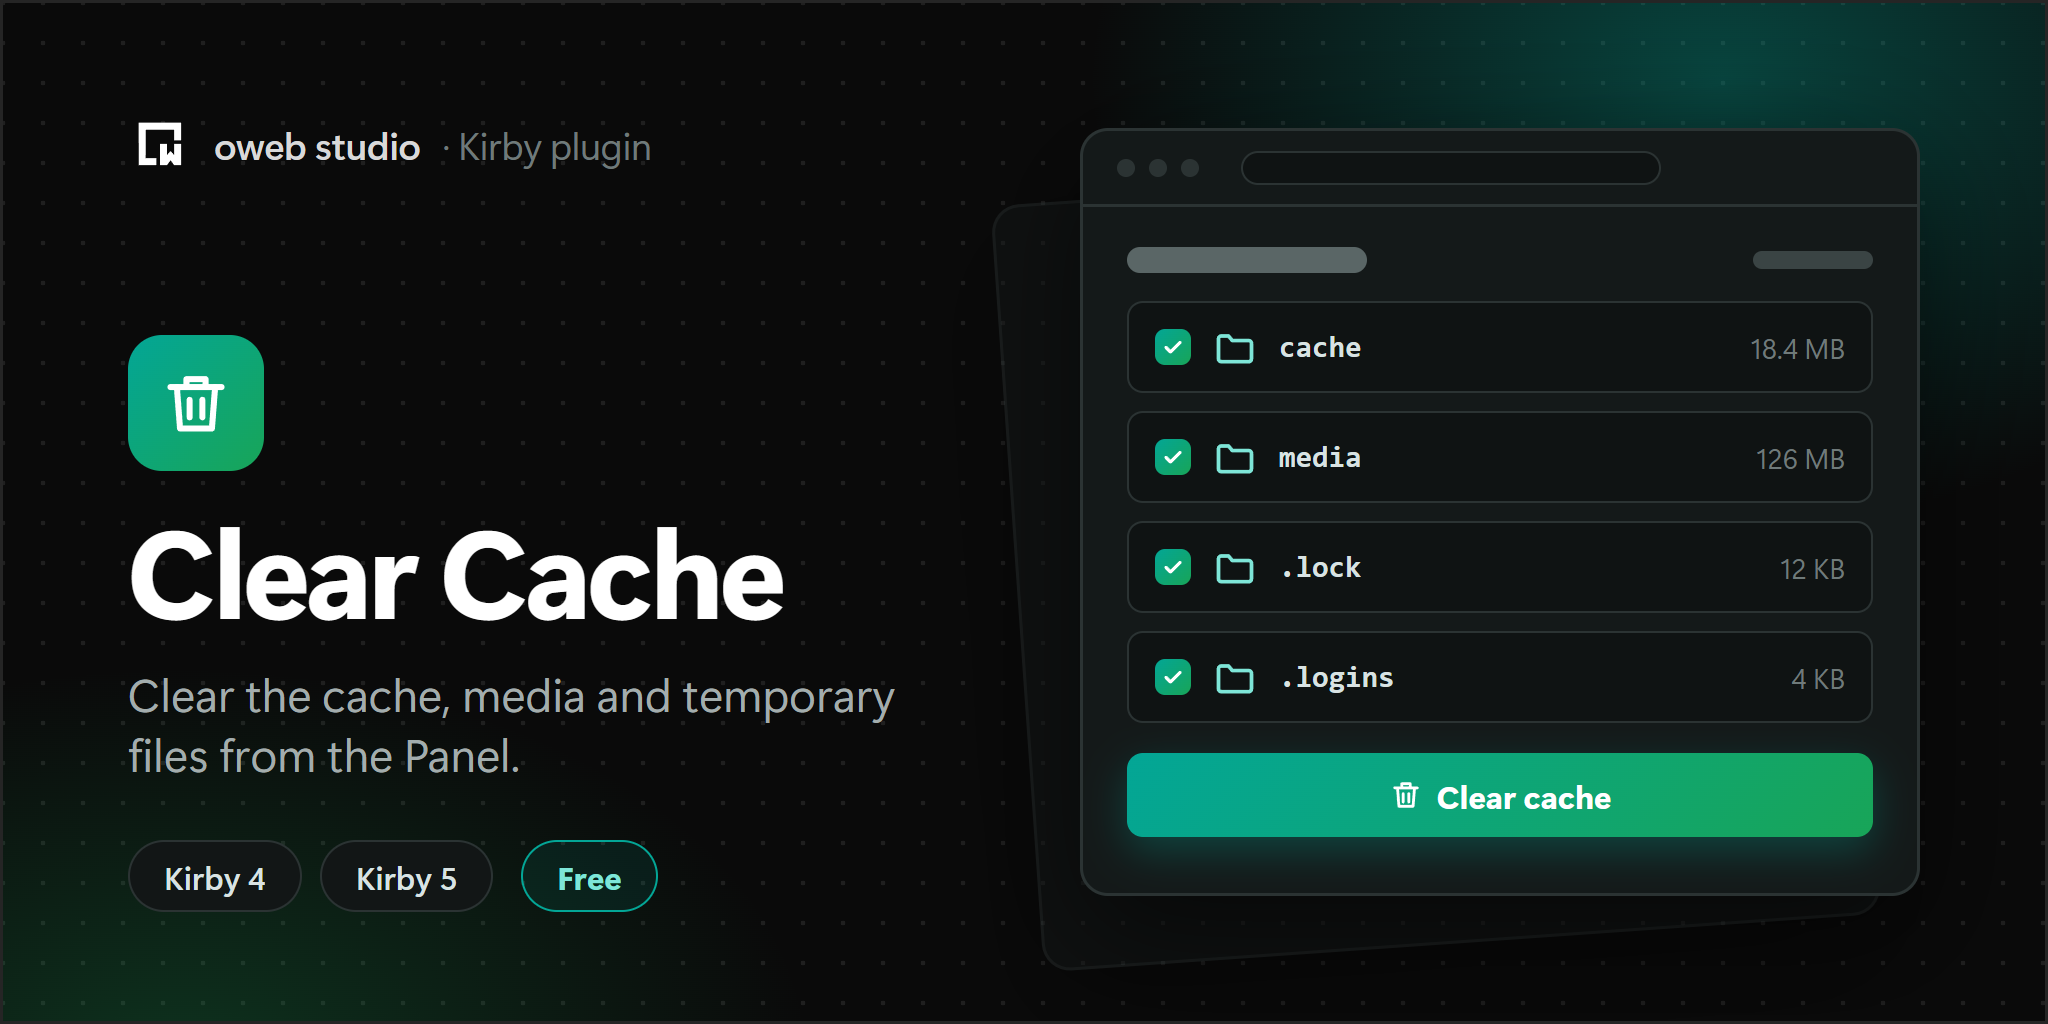
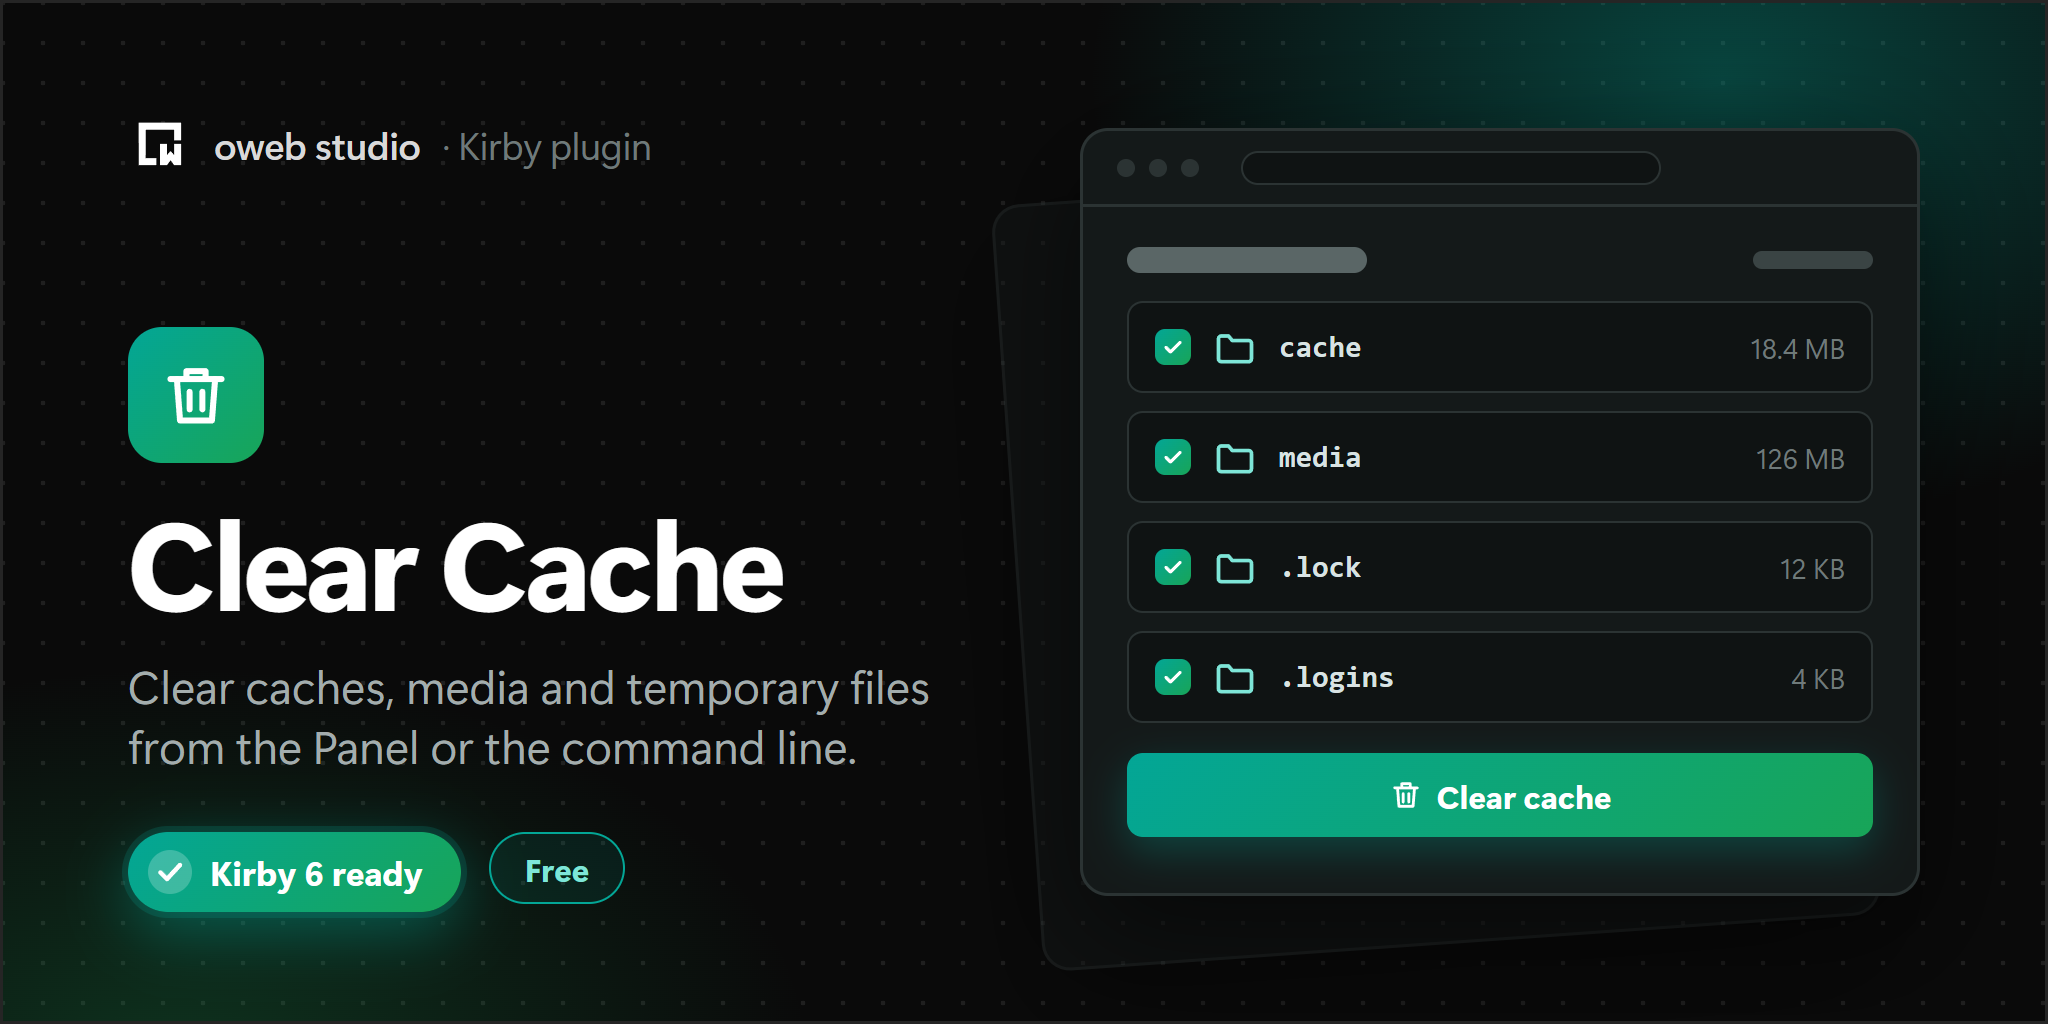
docs: Update the cover for Kirby 6

diff --git a/README.md b/README.md
@@ -1,4 +1,4 @@
-![Clear Cache, a Kirby plugin by oweb studio. Clear the cache, media and temporary files from the Panel.](.github/cover.png)
+![Clear Cache, a Kirby plugin by oweb studio. Clear caches, media and temporary files from the Panel or the command line.](.github/cover.png)
 
 # Kirby Clear Cache
 
